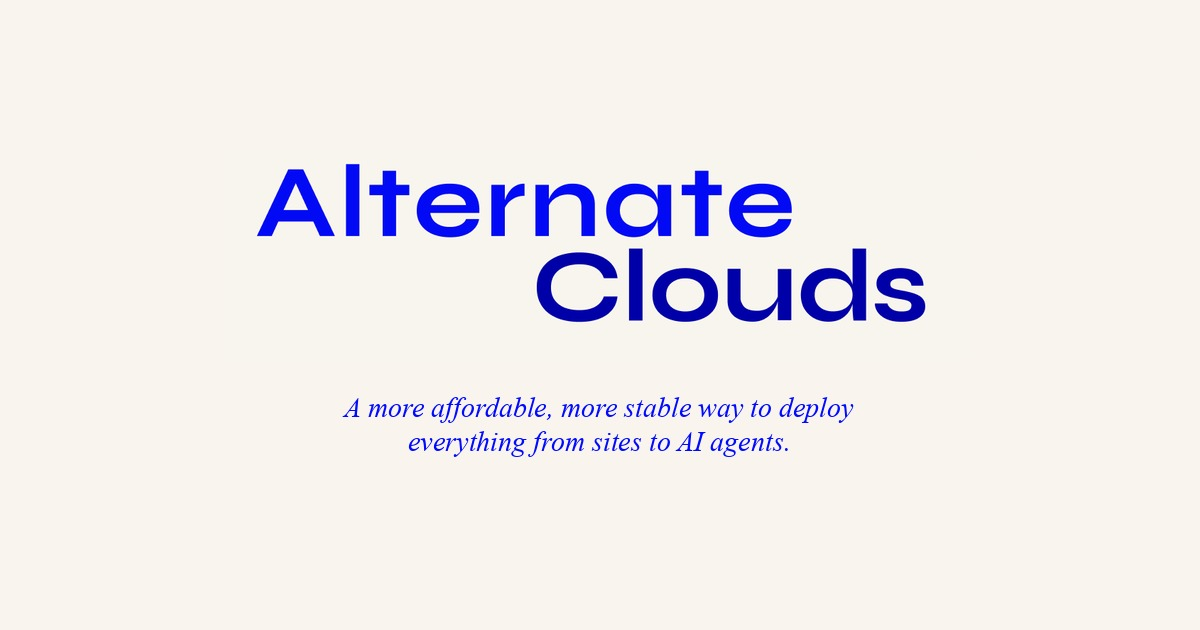
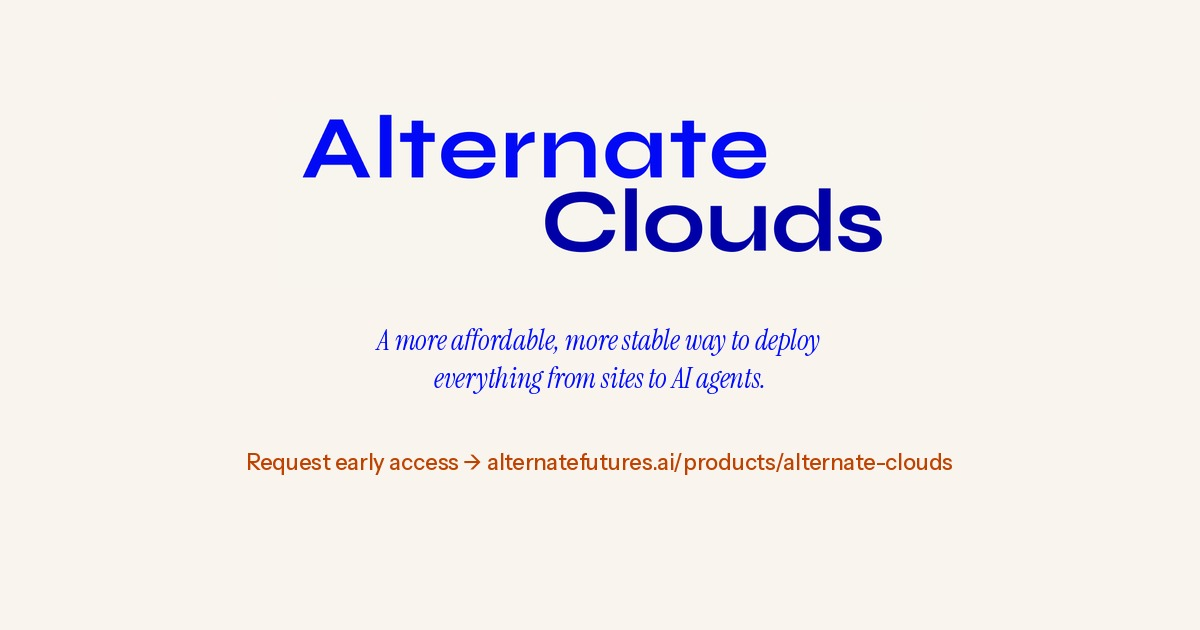
Fix OG images and meta tags for social sharing validation
- Regenerate images with tagline, CTA, and brand fonts
- Use relative image URLs so metadataBase resolves per environment
- Make SITE_URL configurable via NEXT_PUBLIC_SITE_URL env var
- Shorten title to ~58 chars, expand description to ~160 chars
- Set staging SITE_URL in workflow for correct image resolution

Changed region(s): [[0.2158, 0.181, 0.7708, 0.6635], [0.185, 0.6937, 0.8017, 0.754]]

diff --git a/src/app/products/alternate-clouds/layout.tsx b/src/app/products/alternate-clouds/layout.tsx
@@ -1,8 +1,7 @@
 import { Metadata } from 'next'
 
-const SITE_URL = 'https://alternatefutures.ai'
-const CLOUDS_TITLE = 'Alternate Clouds — A more affordable, more stable way to deploy everything from sites to AI agents.'
-const CLOUDS_DESCRIPTION = 'Ship apps on distributed infrastructure in minutes. Lower costs, always online, developer-first tooling. Host anything on distributed nodes keeping you up even when centralized services are down.'
+const CLOUDS_TITLE = 'Alternate Clouds | Deploy Anywhere. Pay Less. Stay Online.'
+const CLOUDS_DESCRIPTION = 'Ship apps on distributed infrastructure in minutes. Lower costs, always-on uptime, and developer-first tooling. Host anything on distributed nodes keeping you up even when centralized services are down. No surprise charges, no rate limits.'
 
 export const metadata: Metadata = {
   title: 'Alternate Clouds',
@@ -10,13 +9,13 @@ export const metadata: Metadata = {
 
   openGraph: {
     type: 'website',
-    url: `${SITE_URL}/products/alternate-clouds`,
+    url: '/products/alternate-clouds',
     title: CLOUDS_TITLE,
     description: CLOUDS_DESCRIPTION,
     siteName: 'Alternate Futures',
     images: [
       {
-        url: `${SITE_URL}/og-image-alternate-clouds.png`,
+        url: '/og-image-alternate-clouds.png',
         width: 1200,
         height: 630,
         alt: 'Alternate Clouds — A more affordable, more stable way to deploy everything from sites to AI agents.',
@@ -33,7 +32,7 @@ export const metadata: Metadata = {
     description: CLOUDS_DESCRIPTION,
     images: [
       {
-        url: `${SITE_URL}/og-image-alternate-clouds.png`,
+        url: '/og-image-alternate-clouds.png',
         width: 1200,
         height: 630,
         alt: 'Alternate Clouds — A more affordable, more stable way to deploy everything from sites to AI agents.',

diff --git a/src/app/layout.tsx b/src/app/layout.tsx
@@ -2,10 +2,10 @@ import '../../styles.css'
 import '../styles/design-tokens.css'
 import { Metadata } from 'next'
 
-const SITE_URL = 'https://alternatefutures.ai'
+const SITE_URL = process.env.NEXT_PUBLIC_SITE_URL || 'https://alternatefutures.ai'
 const SITE_NAME = 'Alternate Futures'
-const DEFAULT_TITLE = 'Alternate Futures - Building the Infrastructure for Human-Computer Alignment'
-const DEFAULT_DESCRIPTION = 'Developing comprehensive standards framework and toolset that ensures AI technology serves human flourishing.'
+const DEFAULT_TITLE = 'Alternate Futures | Infrastructure for Human-Computer Alignment'
+const DEFAULT_DESCRIPTION = 'Building the standards framework and toolset that ensures AI technology serves human flourishing. Deploy apps on decentralized infrastructure with lower costs, always-on uptime, and developer-first tooling.'
 
 export const metadata: Metadata = {
   title: {
@@ -26,10 +26,10 @@ export const metadata: Metadata = {
     description: DEFAULT_DESCRIPTION,
     images: [
       {
-        url: `${SITE_URL}/og-image.png`,
+        url: '/og-image.png',
         width: 1200,
         height: 630,
-        alt: 'Alternate Futures wordmark on cream background',
+        alt: 'Alternate Futures — Building the infrastructure for human-computer alignment',
         type: 'image/png',
       },
     ],
@@ -44,10 +44,10 @@ export const metadata: Metadata = {
     description: DEFAULT_DESCRIPTION,
     images: [
       {
-        url: `${SITE_URL}/og-image.png`,
+        url: '/og-image.png',
         width: 1200,
         height: 630,
-        alt: 'Alternate Futures wordmark on cream background',
+        alt: 'Alternate Futures — Building the infrastructure for human-computer alignment',
       },
     ],
   },
